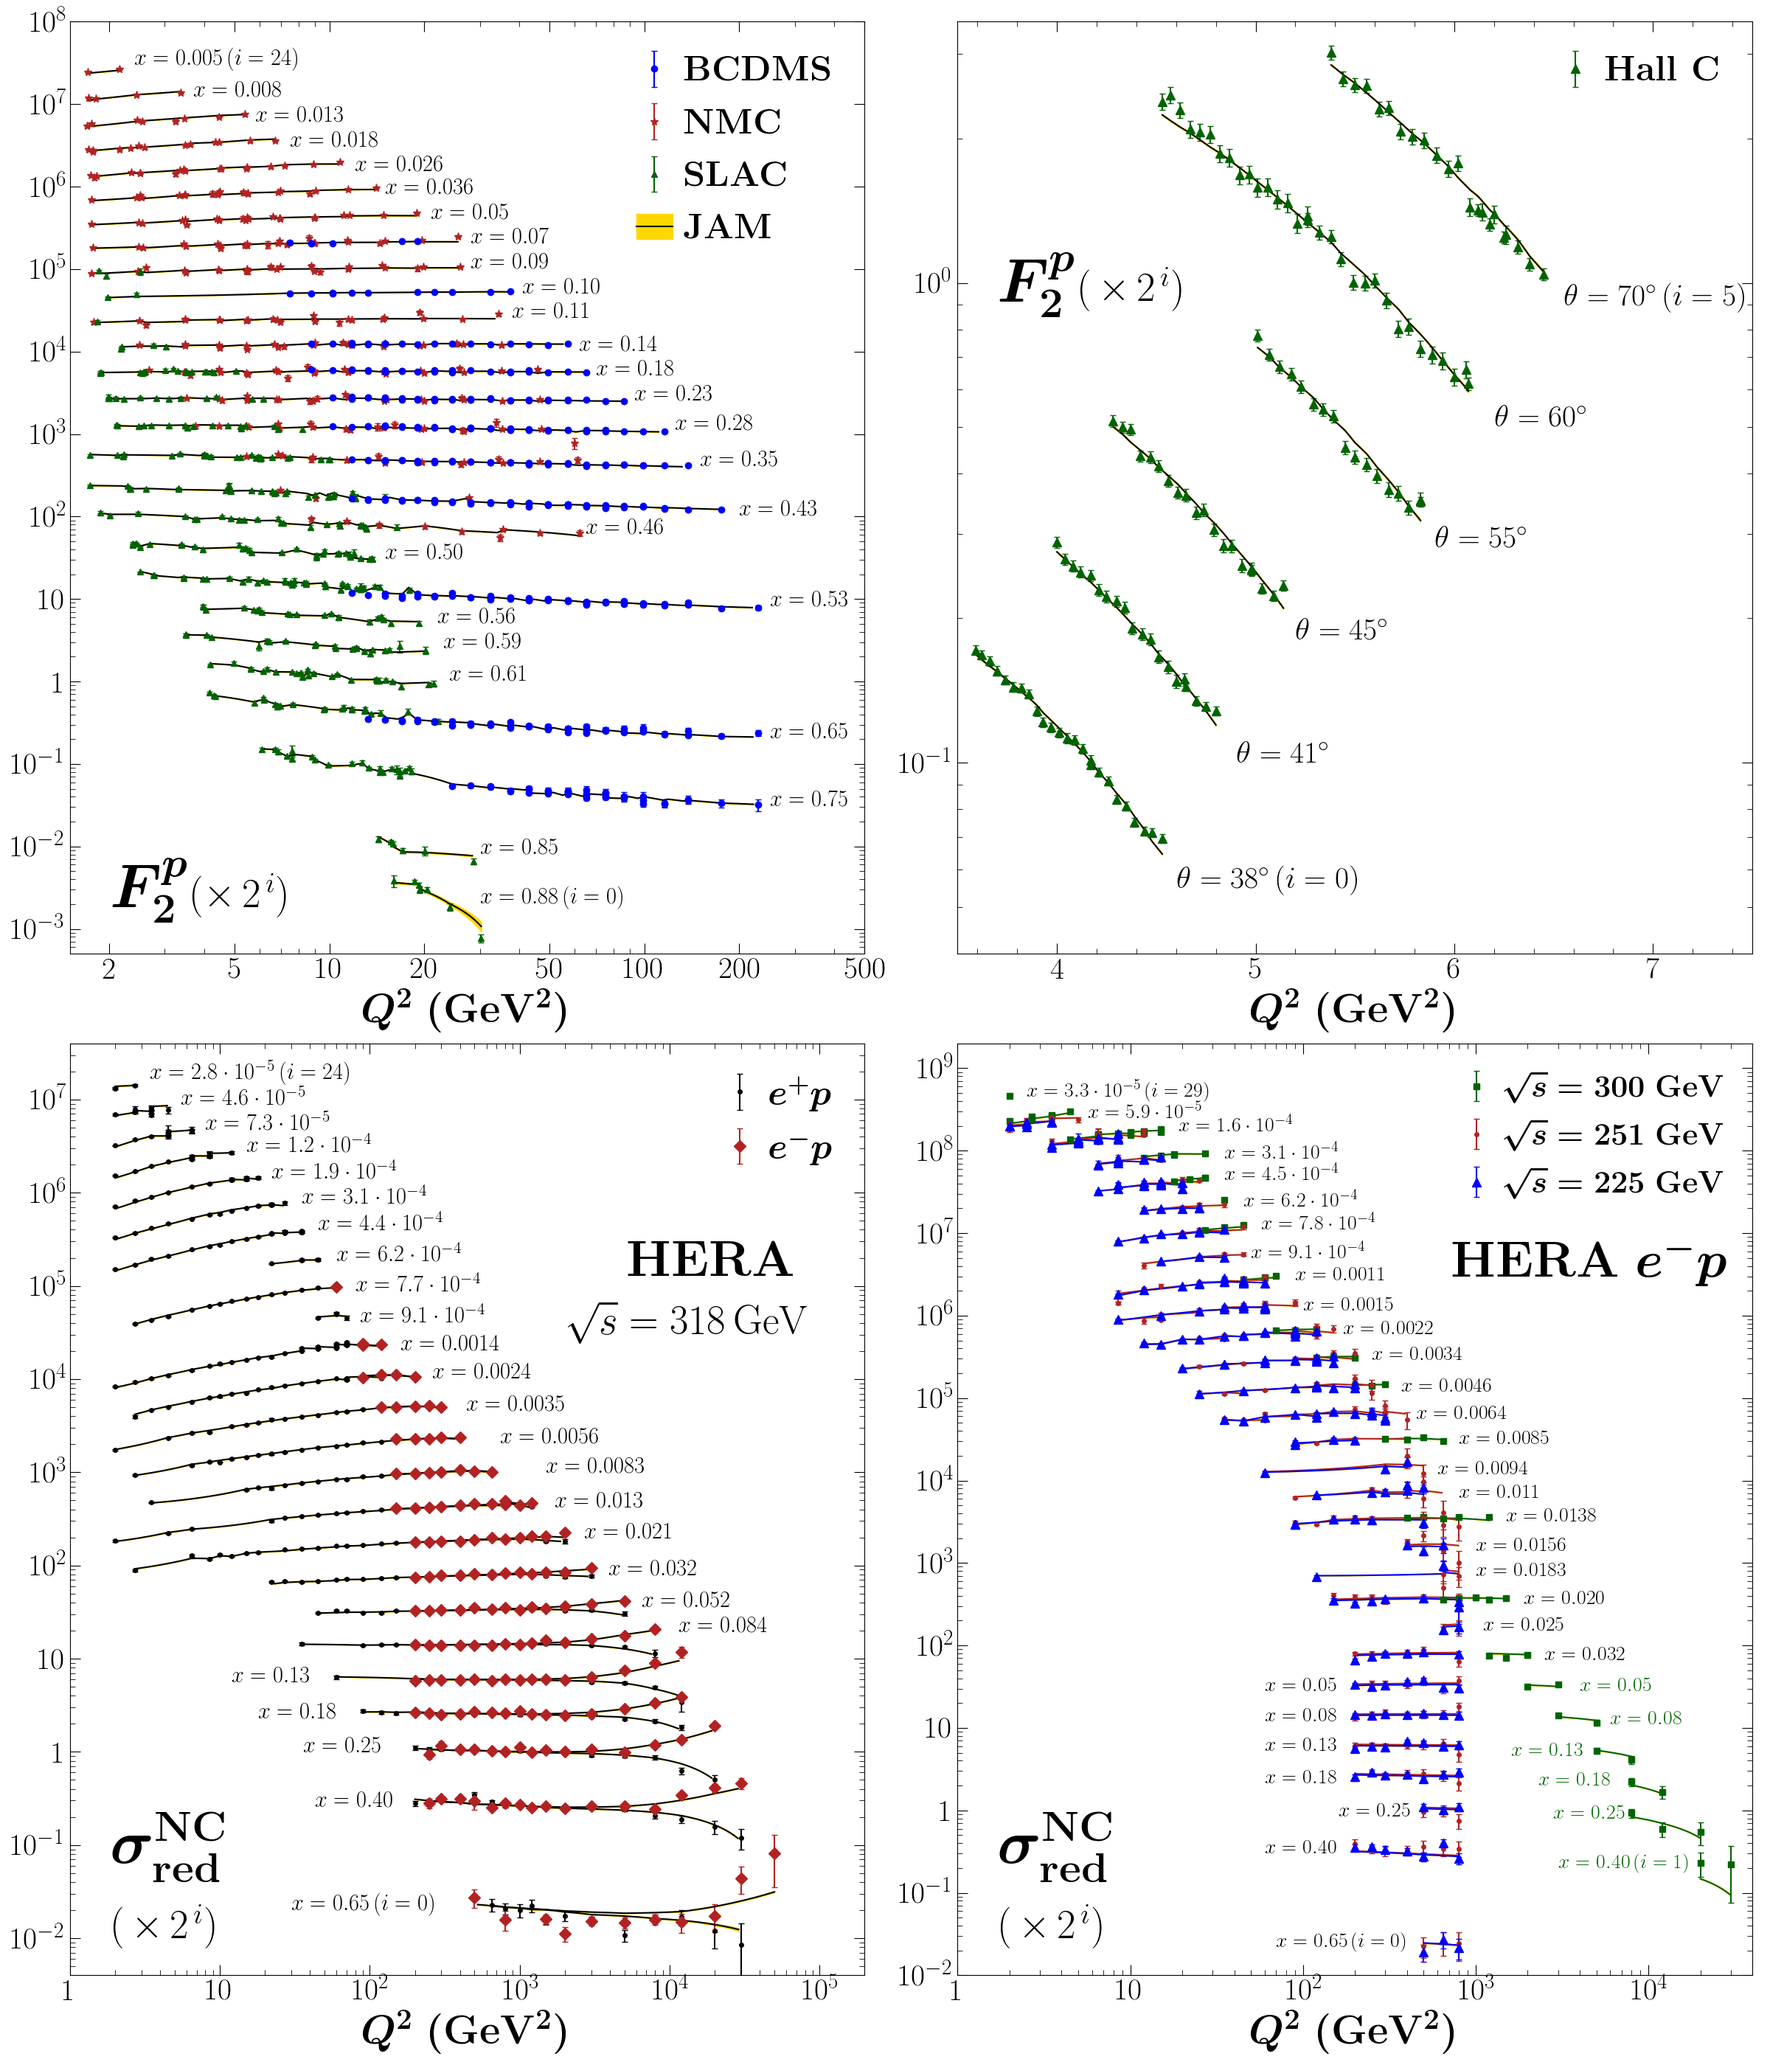
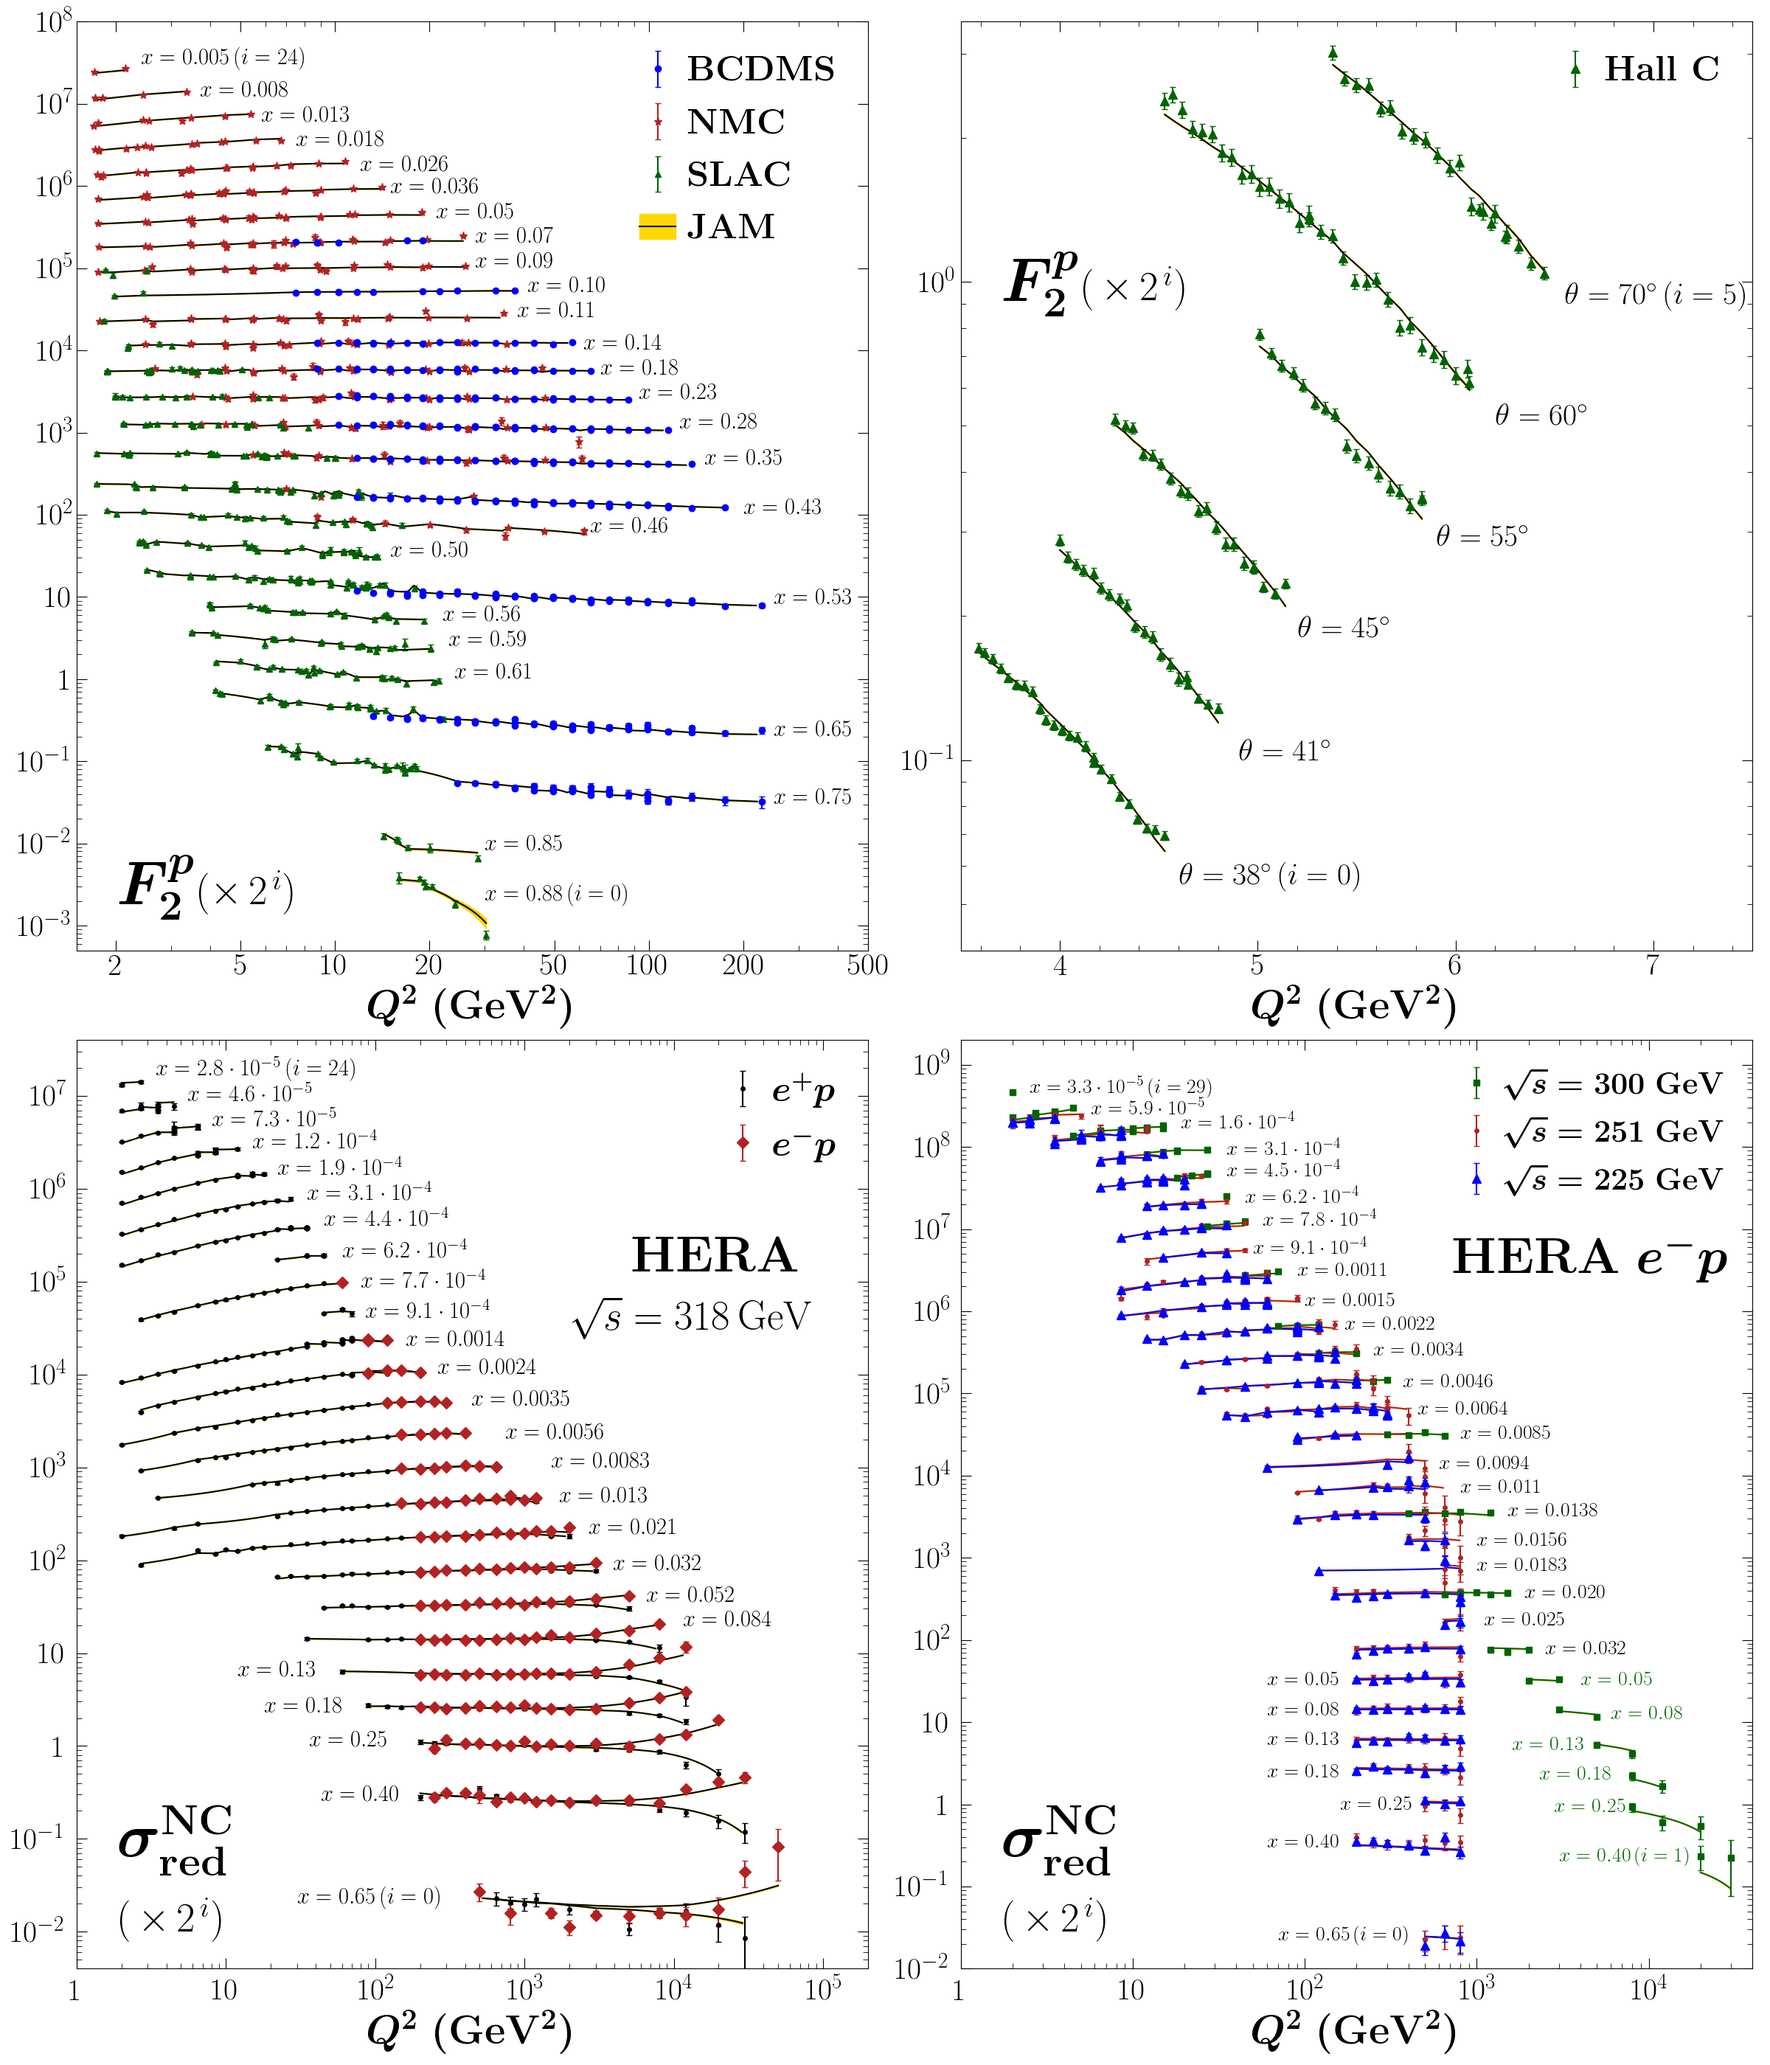
update

diff --git a/analysis/plots/thesis/idis.py b/analysis/plots/thesis/idis.py
@@ -603,13 +603,14 @@ def plot_proton(wdir, data, kc, istep):
     ax21.set_yticks([1e-2, 1e-1, 1e0, 1e1, 1e2, 1e3, 1e4, 1e5, 1e6, 1e7])
     ax21.set_yticklabels([r'$10^{-2}$', r'$10^{-1}$', r'$1$', r'$10$', r'$10^2$', r'$10^3$', r'$10^4$', r'$10^5$', r'$10^6$', r'$10^7$'])
 
-    ax21.tick_params(axis = 'both', labelsize = 30)
+    ax21.tick_params(axis = 'both', labelsize = 30, pad=10)
 
     ax21.set_xlabel(r'\boldmath$Q^2$' + '  ' + r'\textbf{\textrm{(GeV}}' + r'\boldmath$^2)$', size=40)
 
     #ax21.text(1.2, 5e-2,  r'\boldmath$\sigma_r^{p,NC}$', size = 60)
     #ax21.text(13.0,7e-2, r'$(\, \times\, 2^{\, i})$',   size = 40)
-    ax21.text(0.05, 0.10,  r'\boldmath$\sigma_r^{p \textrm{(NC)}}$', transform = ax21.transAxes, size = 60)
+    ax21.text(0.70, 0.75,  r'\textrm{\textbf{HERA}}', transform = ax21.transAxes, size = 50)
+    ax21.text(0.05, 0.12,  r'\boldmath$\sigma_{\rm red}^{\rm NC}$', transform = ax21.transAxes, size = 60)
     ax21.text(0.05, 0.04, r'$(\, \times\, 2^{\, i})$',               transform = ax21.transAxes, size = 40)
 
     ax21.text(2.0e3, 3.0e4, r'$\sqrt{s}=318 \,\rm{GeV}$', fontsize = 40)
@@ -626,8 +627,8 @@ def plot_proton(wdir, data, kc, istep):
 
 
     handles = [hand['HERA 10026'],hand['HERA 10030']]
-    label1  = r'\textbf{\textrm{HERA NC}} \boldmath$e^+p$'
-    label2  = r'\textbf{\textrm{HERA NC}} \boldmath$e^-p$'
+    label1  = r'\boldmath$e^+p$'
+    label2  = r'\boldmath$e^-p$'
     labels  = [label1,label2]
     ax21.legend(handles,labels,loc='upper right', fontsize = 35, frameon = 0, handletextpad = 0.3, handlelength = 1.0)
 
@@ -724,7 +725,8 @@ def plot_proton(wdir, data, kc, istep):
 
     #ax22.text(1.50 , 3.0e-2, r'\boldmath$\sigma_r^{p,NC}$', size = 60)
     #ax22.text(13.0 , 5.0e-2, r'$(\, \times\, 2^{\, i})$',   size = 40)
-    ax22.text(0.05, 0.10,  r'\boldmath$\sigma_r^{p \textrm{(NC)}}$', transform = ax22.transAxes, size = 60)
+    ax22.text(0.62, 0.75,  r'\textrm{\textbf{HERA}}' + ' ' + r'\boldmath$e^-p$', transform = ax22.transAxes, size = 50)
+    ax22.text(0.05, 0.12,  r'\boldmath$\sigma_{\rm red}^{\rm NC}$', transform = ax22.transAxes, size = 60)
     ax22.text(0.05, 0.04, r'$(\, \times\, 2^{\, i})$',               transform = ax22.transAxes, size = 40)
 
     ax22.set_xticks([1.0, 10.0, 1e2, 1e3, 1e4])
@@ -751,17 +753,18 @@ def plot_proton(wdir, data, kc, istep):
     ax22.tick_params(axis = 'y', which = 'both', labelleft = True, labelright = False, direction = 'in')
     ax22.tick_params(axis = 'x', which = 'both', labeltop = False, labelbottom = True, direction = 'in')
 
-    ax22.tick_params(axis='both',labelsize=30)
+    ax22.tick_params(axis='both',labelsize=30,pad=10)
 
     handles = [hand['HERA 10027'],hand['HERA 10028'],hand['HERA 10029']]
-    label1  = r'\textbf{\textrm{HERA}}' + r'$\sqrt{s}=300$'# + ' ' +  r'\textrm{GeV}'
-    label2  = r'\textbf{\textrm{HERA}}' + r'$\sqrt{s}=251$'# + ' ' +  r'\textrm{GeV}'
-    label3  = r'\textbf{\textrm{HERA}}' + r'$\sqrt{s}=225$'# + ' ' +  r'\textrm{GeV}'
+    label1  = r'\boldmath$\sqrt{s}=300$' + ' ' +  r'\textrm{\textbf{GeV}}'
+    label2  = r'\boldmath$\sqrt{s}=251$' + ' ' +  r'\textrm{\textbf{GeV}}'
+    label3  = r'\boldmath$\sqrt{s}=225$' + ' ' +  r'\textrm{\textbf{GeV}}'
     labels  = [label1,label2,label3]
-    ax22.legend(handles,labels,loc='upper right', fontsize = 35, frameon = 0, handletextpad = 0.3, handlelength = 1.0)
+    ax22.legend(handles,labels,loc='upper right', fontsize = 30, frameon = 0, handletextpad = 0.3, handlelength = 1.0)
 
 
     py.tight_layout()
+    py.subplots_adjust(right=0.99)
     filename = '%s/gallery/DIS-proton'%cwd
     filename += '.png'
     #filename += '.pdf'
@@ -872,7 +875,7 @@ def plot_deuteron(wdir, data, kc, istep):
     ax11.set_xlabel(r'\boldmath$Q^2$' + '  ' + r'\textbf{\textrm{(GeV}}' + r'\boldmath$^2)$', size=40)
 
     ax11.text(0.05,0.05,r'\boldmath$F_2^D$',      transform = ax11.transAxes, size = 60)
-    ax11.text(0.15,0.05,r'$(\times\, 2^{\, i})$', transform = ax11.transAxes, size = 40)
+    ax11.text(0.17,0.05,r'$(\times\, 2^{\, i})$', transform = ax11.transAxes, size = 40)
 
     ax11.yaxis.set_ticks_position('both')
     ax11.xaxis.set_ticks_position('both')
@@ -963,7 +966,7 @@ def plot_deuteron(wdir, data, kc, istep):
     ax12.set_xlabel(r'\boldmath$Q^2$' + '  ' + r'\textbf{\textrm{(GeV}}' + r'\boldmath$^2)$', size=40)
 
     ax12.text(0.05,  0.70,   r'\boldmath$F_2^D$',         transform = ax12.transAxes, size = 60)
-    ax12.text(0.15,  0.70,   r'$(\, \times\, 2^{\, i})$', transform = ax12.transAxes, size = 40)
+    ax12.text(0.17,  0.70,   r'$(\, \times\, 2^{\, i})$', transform = ax12.transAxes, size = 40)
 
     ax12.xaxis.set_tick_params(which = 'major', length = 10)
     ax12.xaxis.set_tick_params(which = 'minor', length = 5)
@@ -1070,8 +1073,8 @@ def plot_deuteron(wdir, data, kc, istep):
 
     ax21.set_xlabel(r'\boldmath$Q^2$' + '  ' + r'\textbf{\textrm{(GeV}}' + r'\boldmath$^2)$', size=40)
 
-    ax21.text(0.60, 0.75,  r'\boldmath$F_2^D/F_2^p$',  transform = ax21.transAxes, size = 60)
-    ax21.text(0.85, 0.75,  r'$(\, \times\, 2^{\, i})$',transform = ax21.transAxes, size = 40)
+    ax21.text(0.57, 0.78,  r'\boldmath$F_2^D/F_2^p$',  transform = ax21.transAxes, size = 60)
+    ax21.text(0.84, 0.78,  r'$(\, \times\, 2^{\, i})$',transform = ax21.transAxes, size = 40)
 
     ax21.yaxis.set_ticks_position('both')
     ax21.xaxis.set_ticks_position('both')
@@ -1149,7 +1152,7 @@ def plot_deuteron(wdir, data, kc, istep):
     ax22.set_xlabel(r'\boldmath$x$',size=40)
 
     ax22.text(0.05, 0.90,   r'\boldmath$F_2^n/F_2^D$',   transform = ax22.transAxes, size = 60)
-    ax22.text(0.30, 0.90,   r'$(\, \times\, 4^{\, i})$', transform = ax22.transAxes, size = 40)
+    ax22.text(0.32, 0.90,   r'$(\, \times\, 4^{\, i})$', transform = ax22.transAxes, size = 40)
 
     ax22.xaxis.set_tick_params(which = 'major', length = 10)
     ax22.xaxis.set_tick_params(which = 'minor', length = 5)
@@ -1253,10 +1256,12 @@ def plot_CC(wdir, data, kc, istep):
     ax.set_xlim(1.5e2,   4e4)
     ax.set_ylim(1.0e-2,  8e5)
 
-    ax.set_xticks([2e2, 1e3, 1e4, 4e4])
-    ax.set_xticklabels([r'$200$', r'$10^3$', r'$10^4$', r'$4\cdot10^4$'])
+    ax.set_xticks([2e2, 1e3, 1e4])
+    ax.set_xticklabels([r'$200$', r'$10^3$', r'$10^4$'])
     ax.set_yticks([1e-2, 1e-1, 1e0, 1e1, 1e2, 1e3, 1e4, 1e5])
     ax.set_yticklabels([r'$10^{-2}$', r'$10^{-1}$', r'$1$', r'$10$', r'$10^2$', r'$10^3$', r'$10^4$', r'$10^5$'])
+
+    ax.tick_params(axis = 'x', pad = 10)
 
     ax.tick_params(axis = 'both', labelsize = 30)
 
@@ -1264,7 +1269,7 @@ def plot_CC(wdir, data, kc, istep):
 
     #ax.text(1.8e2, 2.0e-2, r'\boldmath$\sigma_r^{p,CC}$', size = 60)
     #ax.text(5.6e2, 2.6e-2,  r'$(\, \times\, 5^{\, i})$',   size = 40)
-    ax.text(0.05, 0.08,  r'\boldmath$\sigma_r^{p \textrm{(CC)}}$',transform = ax.transAxes, size = 60)
+    ax.text(0.05, 0.10,  r'\boldmath$\sigma_{\rm red}^{\rm CC}$',transform = ax.transAxes, size = 60)
     ax.text(0.05, 0.03,  r'$(\, \times\, 5^{\, i})$'             ,transform = ax.transAxes, size = 40)
 
     ax.xaxis.set_tick_params(which = 'major', length = 10)
@@ -1280,8 +1285,8 @@ def plot_CC(wdir, data, kc, istep):
     #ax.text(5.0e3,  2.0e4, r'$\sqrt{s}=318 \,\rm{GeV}$', fontsize = 40)
 
     handles = [hand['HERA 10031'],hand['HERA 10032'],(thy_band,thy_plot)]
-    label1  = r'\textbf{\textrm{HERA CC}} \boldmath$e^+p$'
-    label2  = r'\textbf{\textrm{HERA CC}} \boldmath$e^-p$'
+    label1  = r'\textbf{\textrm{HERA}} \boldmath$e^+p$'
+    label2  = r'\textbf{\textrm{HERA}} \boldmath$e^-p$'
     label3  = r'\textbf{\textrm{JAM}}'
     labels  = [label1,label2,label3]
     ax.legend(handles,labels,loc='upper right', fontsize = 35, frameon = 0, handletextpad = 0.3, handlelength = 1.0)
@@ -1355,7 +1360,7 @@ def plot_A3(wdir, data, kc, istep):
     ax11.xaxis.set_tick_params(which = 'major', length = 5)
     ax11.xaxis.set_tick_params(which = 'minor', length = 2.5)
 
-    ax11.set_xlabel(r'\boldmath$x$', size=30)
+    ax11.set_xlabel(r'\boldmath$x_{\rm bj}$', size=30)
     ax11.xaxis.set_label_coords(0.95,0.00)
 
     ax11.text(0.05, 0.85, r'\boldmath$F_2^{^3\rm{He}}/F_2^{D}$', transform = ax11.transAxes, size = 40)
@@ -1431,7 +1436,7 @@ def plot_A3(wdir, data, kc, istep):
     ax12.xaxis.set_tick_params(which = 'major', length = 5)
     ax12.xaxis.set_tick_params(which = 'minor', length = 2.5)
 
-    ax12.set_xlabel(r'\boldmath$x$', size=30)
+    ax12.set_xlabel(r'\boldmath$x_{\rm bj}$', size=30)
     ax12.xaxis.set_label_coords(0.95,0.00)
 
     ax12.text(0.05, 0.85, r'\boldmath$F_2^{^3\rm{He}}/F_2^{^3\rm{H}}$', transform = ax12.transAxes, size = 40)
@@ -1494,9 +1499,9 @@ if __name__ == "__main__":
 
     checkdir('%s/gallery'%cwd)
     plot_proton  (wdir, data, kc, istep)
-    plot_deuteron(wdir, data, kc, istep)
-    plot_CC      (wdir, data, kc, istep)
-    plot_A3      (wdir, data, kc, istep)
+    #plot_deuteron(wdir, data, kc, istep)
+    #plot_CC      (wdir, data, kc, istep)
+    #plot_A3      (wdir, data, kc, istep)
 
 
 
